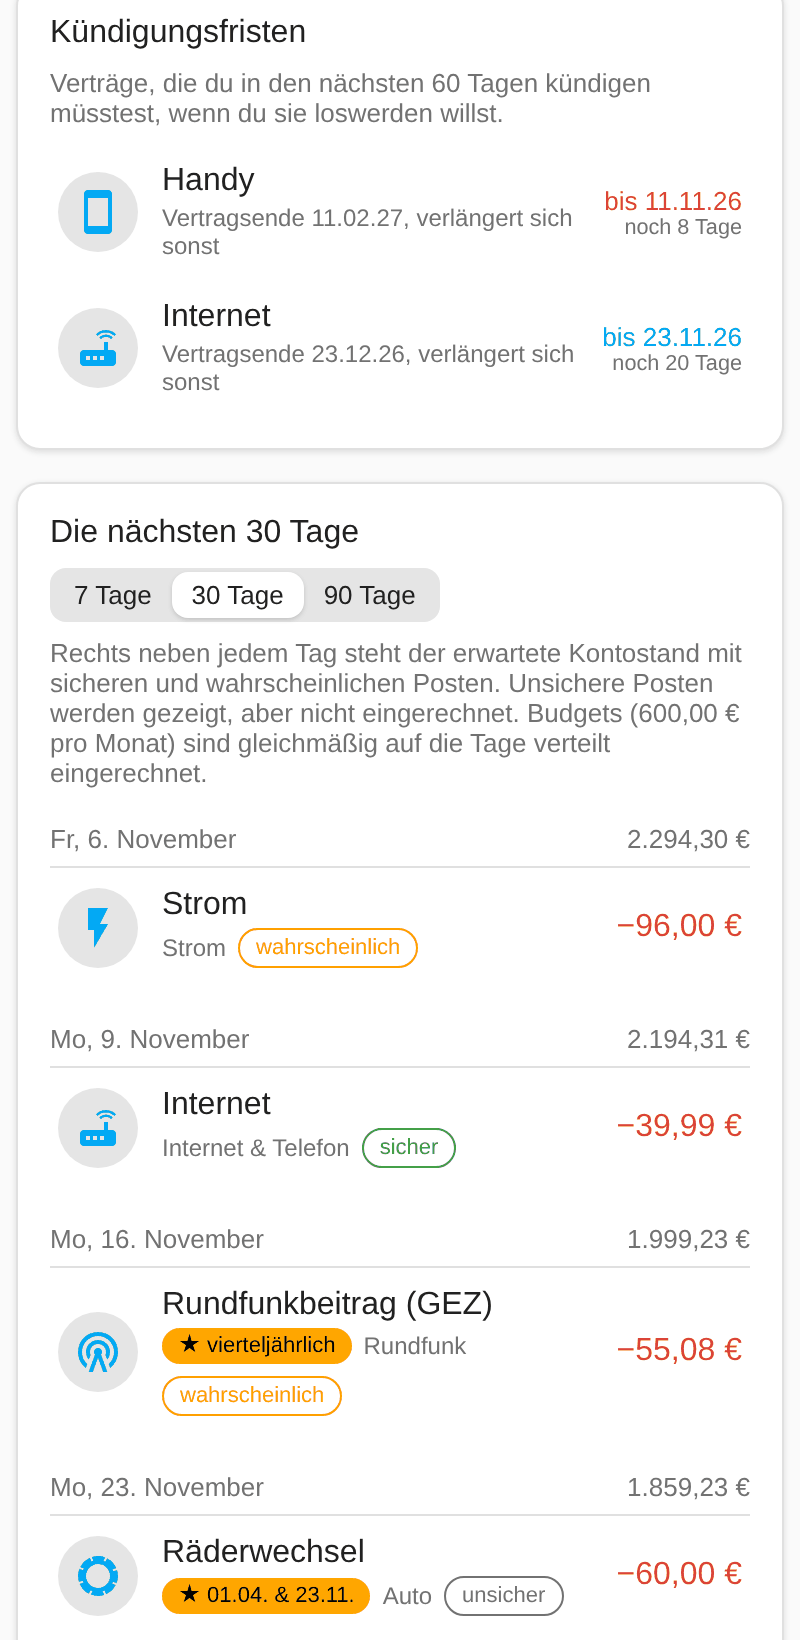
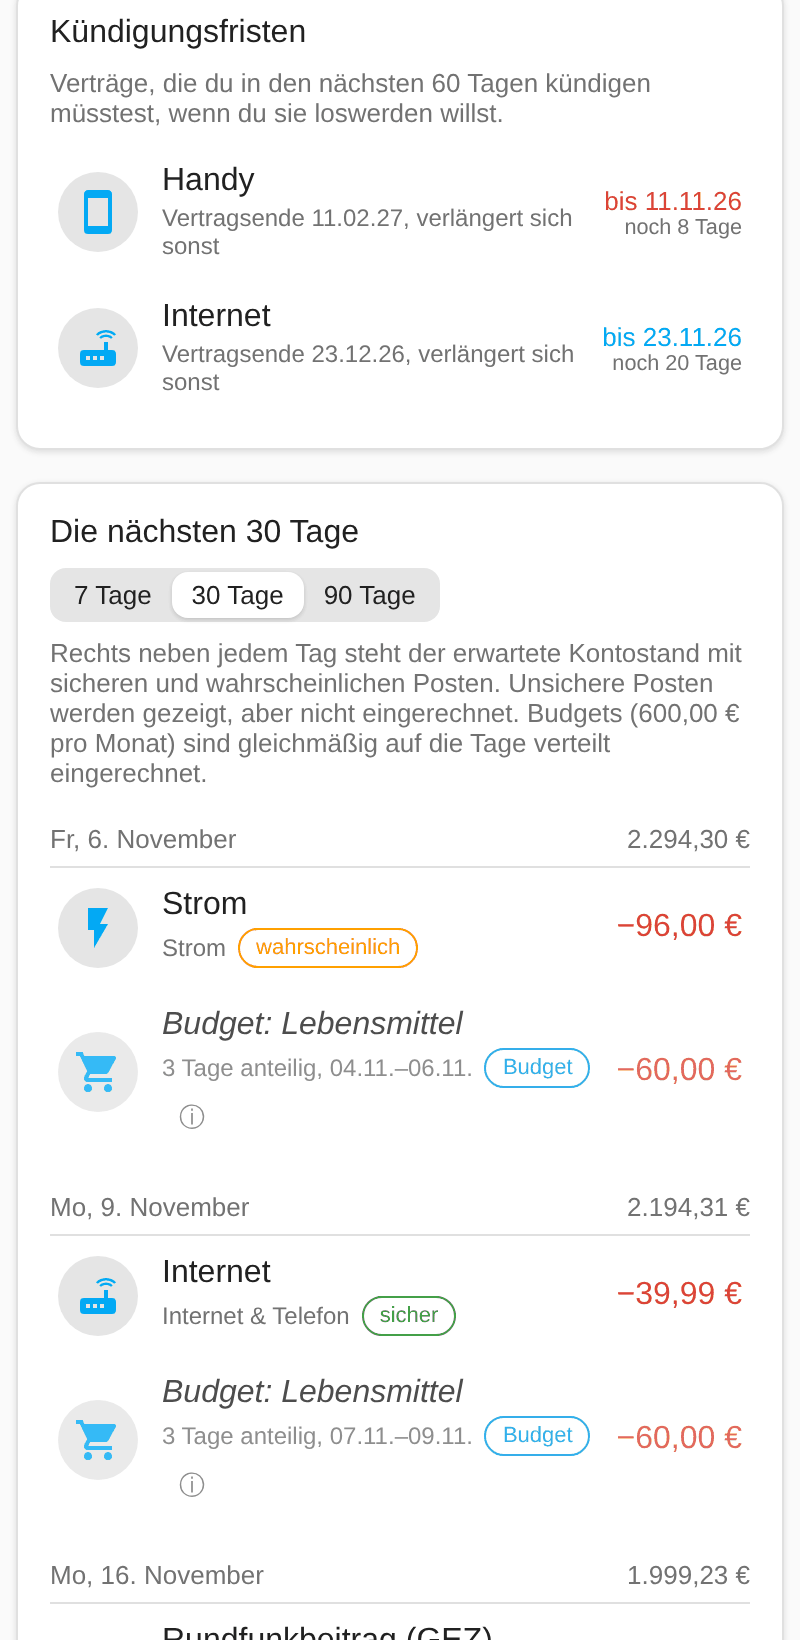
Budget-Anteil als Zeile in Zeitleiste und Kalender (v0.8.3)
Claude-Session: https://claude.ai/code/session_01TQxBNxp7GSYrGRsbUUGUXa

diff --git a/custom_components/haushaltsbuch/frontend/haushaltsbuch-panel.js b/custom_components/haushaltsbuch/frontend/haushaltsbuch-panel.js
@@ -664,8 +664,46 @@ class HaushaltsbuchPanel extends HTMLElement {
     </div>`;
   }
 
+  // Budget money taken off the balance between two listed days, keyed by the
+  // listed day, so every change of the balance is visible as a row.
+  _budgetGaps(allDays, shown, balanceDate) {
+    const listed = new Set(shown.map((d) => d.date));
+    const gaps = {};
+    let sum = 0, n = 0, from = null;
+    for (const d of allDays) {
+      if (d.budget && d.balance_likely !== null && (!balanceDate || d.date > balanceDate)) {
+        sum += d.budget;
+        n += 1;
+        from ??= d.date;
+      }
+      if (listed.has(d.date)) {
+        if (Math.abs(sum) >= 0.005) gaps[d.date] = { sum, n, from, to: d.date };
+        sum = 0; n = 0; from = null;
+      }
+    }
+    return gaps;
+  }
+
+  _renderBudgetRow(g) {
+    if (!g) return "";
+    const budgets = this._scopeItems().filter((i) => i.schedule?.frequency === "budget" && i.start_date <= g.to && (!i.end_date || i.end_date >= g.from));
+    const names = budgets.map((i) => i.name).join(", ");
+    const span = g.n === 1 ? tr("1 Tag anteilig", "1 day pro rata") : tr(`${g.n} Tage anteilig, ${shortDay(g.from)}–${shortDay(g.to)}`, `${g.n} days pro rata, ${shortDay(g.from)}–${shortDay(g.to)}`);
+    const one = budgets.length === 1 ? budgets[0] : null;
+    return `<div class="entry budget-row" ${one ? `data-action="edit-item" data-item="${esc(one.id)}"` : ""}>
+      <div class="entry-icon">${this._icon(one?.icon || "mdi:wallet-outline")}</div>
+      <div class="entry-main">
+        <div class="entry-name">${tr("Budget", "Budget")}${names ? `: ${esc(names)}` : ""}</div>
+        <div class="entry-meta">${span} <span class="chip budget">Budget</span>${this._help(tr("Budgets wie Lebensmittel haben keine festen Termine. Die App zieht sie gleichmäßig über den Monat verteilt jeden Tag ein Stück vom erwarteten Kontostand ab. Hier steht, wie viel davon seit dem letzten Tag in der Liste abgezogen wurde.", "Budgets such as groceries have no fixed dates. The app takes them off the expected balance a little every day, spread evenly over the month. This row shows how much was taken off since the previous day in the list."))}</div>
+      </div>
+      <div class="entry-amount ${g.sum < 0 ? "neg" : "pos"}">${this._money(g.sum, true)}</div>
+    </div>`;
+  }
+
   _renderTimeline() {
-    const days = (this._forecast?.days || []).filter((d) => d.entries.length);
+    const allDays = this._forecast?.days || [];
+    const days = allDays.filter((d) => d.entries.length);
+    const gaps = this._budgetGaps(allDays, days, this._forecast?.balance_date);
     const ranges = [7, 30, 90];
     const pending = this._pending.length
       ? `<div class="card">
@@ -683,6 +721,7 @@ class HaushaltsbuchPanel extends HTMLElement {
             (d) => `<div class="day">
               <div class="day-head"><span>${this._dateLabel(d.date)}</span>${d.balance_likely !== null ? `<span class="day-balance ${d.balance_likely < 0 ? "neg" : ""}">${this._money(d.balance_likely)}</span>` : ""}</div>
               ${d.entries.map((e) => this._renderEntry(e, { special: this._specialOf(e) })).join("")}
+              ${this._renderBudgetRow(gaps[d.date])}
             </div>`
           )
           .join("")
@@ -759,8 +798,10 @@ class HaushaltsbuchPanel extends HTMLElement {
   }
 
   _renderMonthList() {
-    const days = (this._calendar?.days || []).filter((d) => d.entries.some((e) => e.status !== "skipped"));
+    const allDays = this._calendar?.days || [];
+    const days = allDays.filter((d) => d.entries.some((e) => e.status !== "skipped"));
     const t = iso(today());
+    const gaps = this._budgetGaps(allDays, days, this._calendar?.balance_date);
     return `<div class="card">
       <h3>${tr(`Alle Buchungen im ${monthName(this._month.getMonth())}`, `All bookings in ${monthName(this._month.getMonth())}`)}</h3>
       <p class="hint">${tr("Tippe oben auf einen Tag, um nur diesen Tag zu sehen.", "Tap a day above to see only that day.")}</p>
@@ -770,6 +811,7 @@ class HaushaltsbuchPanel extends HTMLElement {
               (d) => `<div class="day ${d.date < t ? "past" : ""}">
                 <div class="day-head"><span>${this._dateLabel(d.date)}</span>${d.balance_likely !== null && d.date >= t ? `<span class="day-balance ${d.balance_likely < 0 ? "neg" : ""}">${this._money(d.balance_likely)}</span>` : ""}</div>
                 ${d.entries.map((e) => this._renderEntry(e, { special: this._specialOf(e) })).join("")}
+                ${d.date >= t ? this._renderBudgetRow(gaps[d.date]) : ""}
               </div>`
             )
             .join("")
@@ -1993,6 +2035,9 @@ const STYLES = `
   .pending-date { font-size: 12px; color: var(--secondary-text-color); margin-top: 8px; }
   .entry { display: flex; align-items: center; gap: 12px; padding: 10px 4px; cursor: pointer; border-radius: 8px; flex-wrap: wrap; }
   .entry:hover { background: var(--secondary-background-color); }
+  .entry.budget-row { opacity: 0.8; }
+  .entry.budget-row:not([data-action]) { cursor: default; }
+  .entry.budget-row .entry-name { font-style: italic; }
   .entry-icon { width: 40px; height: 40px; border-radius: 50%; background: var(--secondary-background-color); display: flex; align-items: center; justify-content: center; color: var(--primary-color); flex-shrink: 0; }
   .entry-main { flex: 1; min-width: 0; }
   .entry-name { font-weight: 500; overflow: hidden; text-overflow: ellipsis; white-space: nowrap; }

diff --git a/custom_components/haushaltsbuch/const.py b/custom_components/haushaltsbuch/const.py
@@ -2,7 +2,7 @@
 from __future__ import annotations
 
 DOMAIN = "haushaltsbuch"
-VERSION = "0.8.2"
+VERSION = "0.8.3"
 
 STORAGE_KEY = f"{DOMAIN}.data"
 STORAGE_VERSION = 1

diff --git a/README.md b/README.md
@@ -29,7 +29,7 @@ Alle Posten werden von Hand erfasst. Es gibt keine Bankanbindung, und die Daten 
 - **Sicherheitsstufe** pro Buchung: *sicher*, *wahrscheinlich* oder *unsicher*. Sie ergibt sich aus Schwankung von Betrag und Datum und daraus, ob die letzten Buchungen pünktlich bestätigt wurden. Pro Posten auch fest einstellbar.
 - **Preisänderungen**: neuer Betrag ab einem Datum, frühere Buchungen behalten den alten Betrag
 - **Verträge**: Laufzeit, Kündigungsfrist und automatische Verlängerung. Die Zeitleiste zeigt rechtzeitig, bis wann du kündigen musst.
-- **Budgets** für variable Ausgaben wie Lebensmittel oder Freizeit: ein Monatsbetrag, der gleichmäßig über den Monat vom erwarteten Kontostand abgeht
+- **Budgets** für variable Ausgaben wie Lebensmittel oder Freizeit: ein Monatsbetrag, der gleichmäßig über den Monat vom erwarteten Kontostand abgeht. In der Zeitleiste steht an jedem Tag als eigene Zeile, wie viel Budget seit dem letzten Tag abgezogen wurde, damit jeder Tagessaldo aufgeht
 - **Gleitende Posten lernen** ab drei bestätigten Terminen den echten durchschnittlichen Abstand
 - **Termin festlegen**: Datum und Betrag einer einzelnen Buchung festlegen. Bei gleitenden Posten rücken alle weiteren Termine nach, sonst wird nur diese eine Buchung verschoben.
 - **Bestätigen**: Fällige Buchungen als „gebucht“ (optional mit echtem Datum und Betrag) oder „ausgefallen“ markieren

diff --git a/README.en.md b/README.en.md
@@ -30,7 +30,7 @@ All items are entered by hand. There is no bank connection, and the data stays i
 - **Certainty level** per booking: *certain*, *likely* or *uncertain*. It is derived from how much amount and date vary and whether recent bookings were confirmed on time. Can also be fixed per entry.
 - **Price changes**: a new amount from a given date; earlier bookings keep the old amount
 - **Contracts**: term, notice period and automatic renewal. The timeline tells you in time by when you have to cancel.
-- **Budgets** for variable spending such as groceries: a monthly amount that is spread evenly across the month
+- **Budgets** for variable spending such as groceries: a monthly amount that is spread evenly across the month. The timeline shows on each day, as its own row, how much budget was taken off since the previous day, so every daily balance adds up
 - **Rolling entries learn** the real average interval after three confirmed bookings
 - **Fix a date** for a single booking. For rolling entries, all later dates move along; otherwise only this one booking moves.
 - **Confirm** due bookings as *booked* (optionally with the real date and amount) or *skipped*
